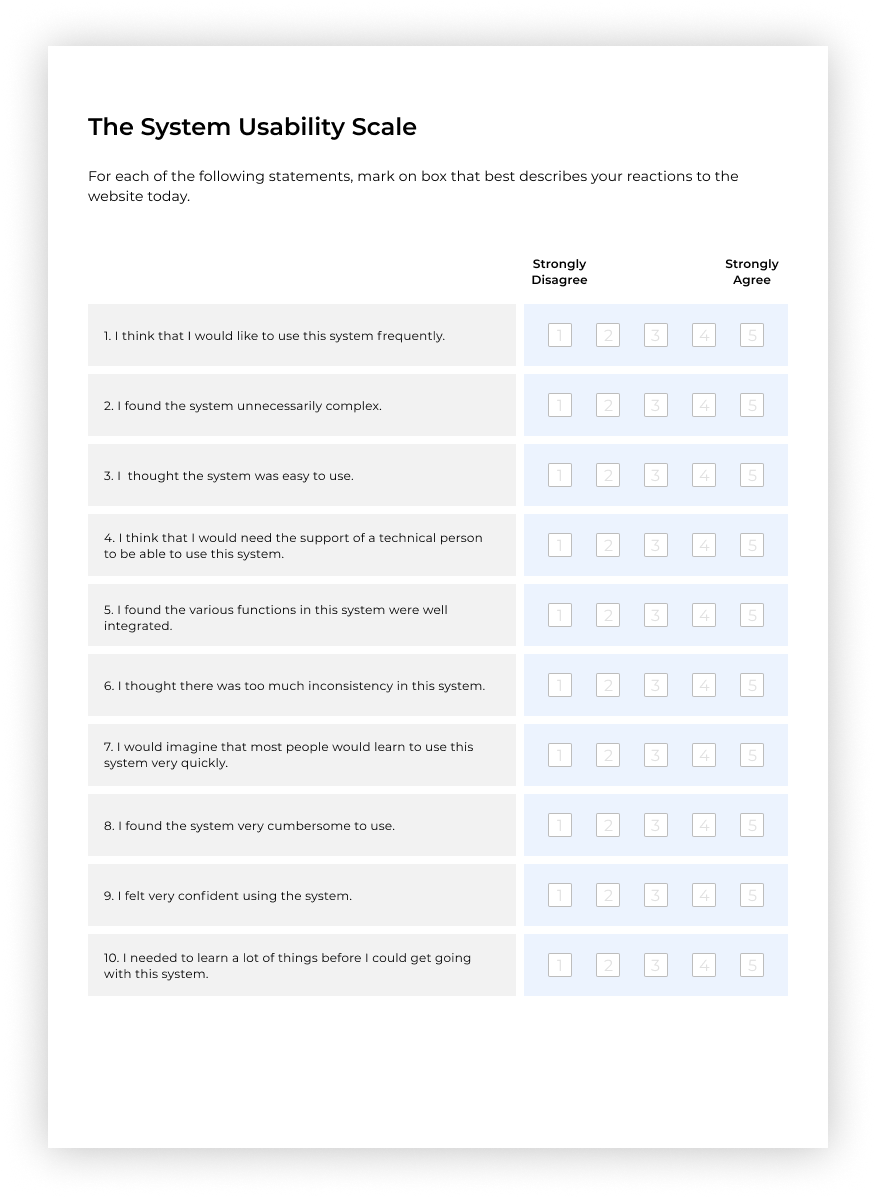
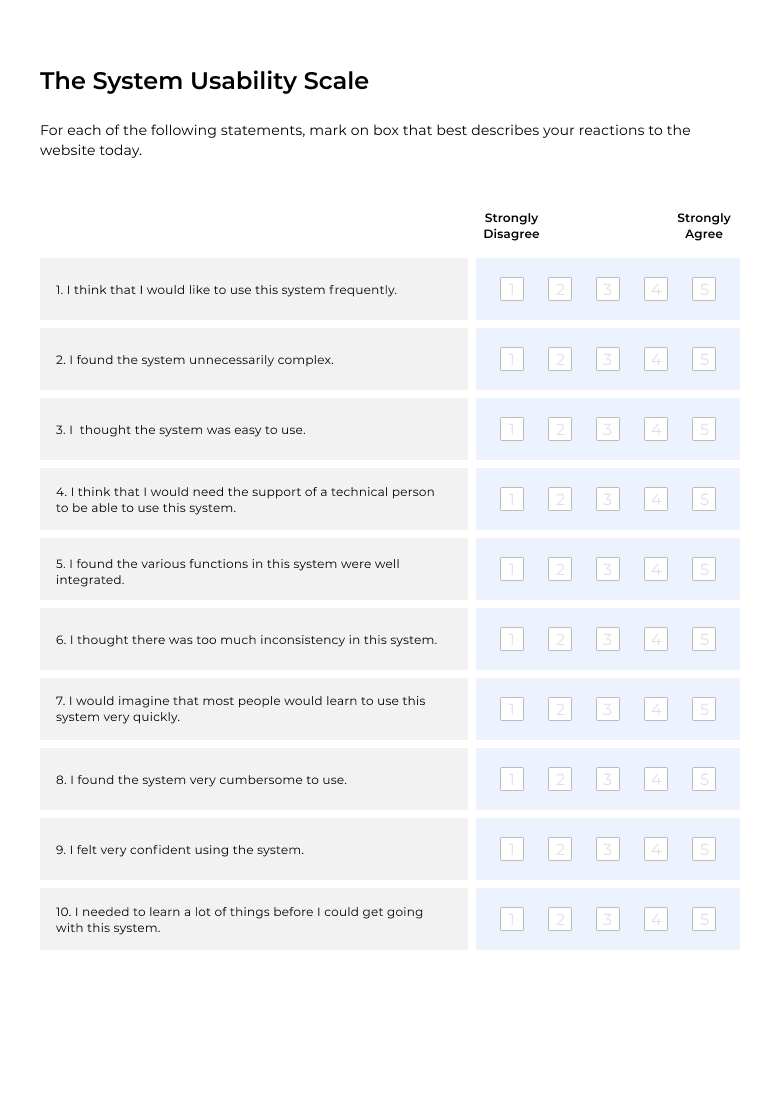
agent app-research material added

diff --git a/agent-app.html b/agent-app.html
@@ -84,14 +84,23 @@
                     <p class="body">
                     On the top of user research and usability testing, various methods were applied to understand the users and to evaluate the product better quantitatively. 
                     <br>
-                    <a href="https://www.nngroup.com/articles/measuring-perceived-usability/" target="_blank" style="text-decoration: underline" >System Usability Scale</a> was used to evaluate the product usability quantitatively. Satisfaction score was collected to measure the user satisfaction more objectively.
+                    <a href="https://www.nngroup.com/articles/measuring-perceived-usability/" target="_blank" style="text-decoration: underline">System Usability Scale</a> was used to evaluate the product usability quantitatively. Satisfaction score was collected to measure the user satisfaction more objectively.
                     </p>
                 </div>
             </div>
             
-            <div class="full-width">
-                    <img src="Assets/agent-app/research/sus-sheet+result.png">
+            <div class="half-width center">
+                    <img src="Assets/agent-app/research/sus-sheet.png">
             </div>
+            
+            <div class="half-width center">
+                    <p class="body">
+                    We also evaluated the product from our expert point of view, using <a href="https://www.nngroup.com/articles/pure-method/" target="_blank" style="text-decoration: underline">PURE method</a>.                
+                    </p>
+                    <br><br><br><br>
+                    <img src="Assets/agent-app/research/pure-table.png">
+            </div>
+            
             
             <!-- 04 -->
             <div class="container">
